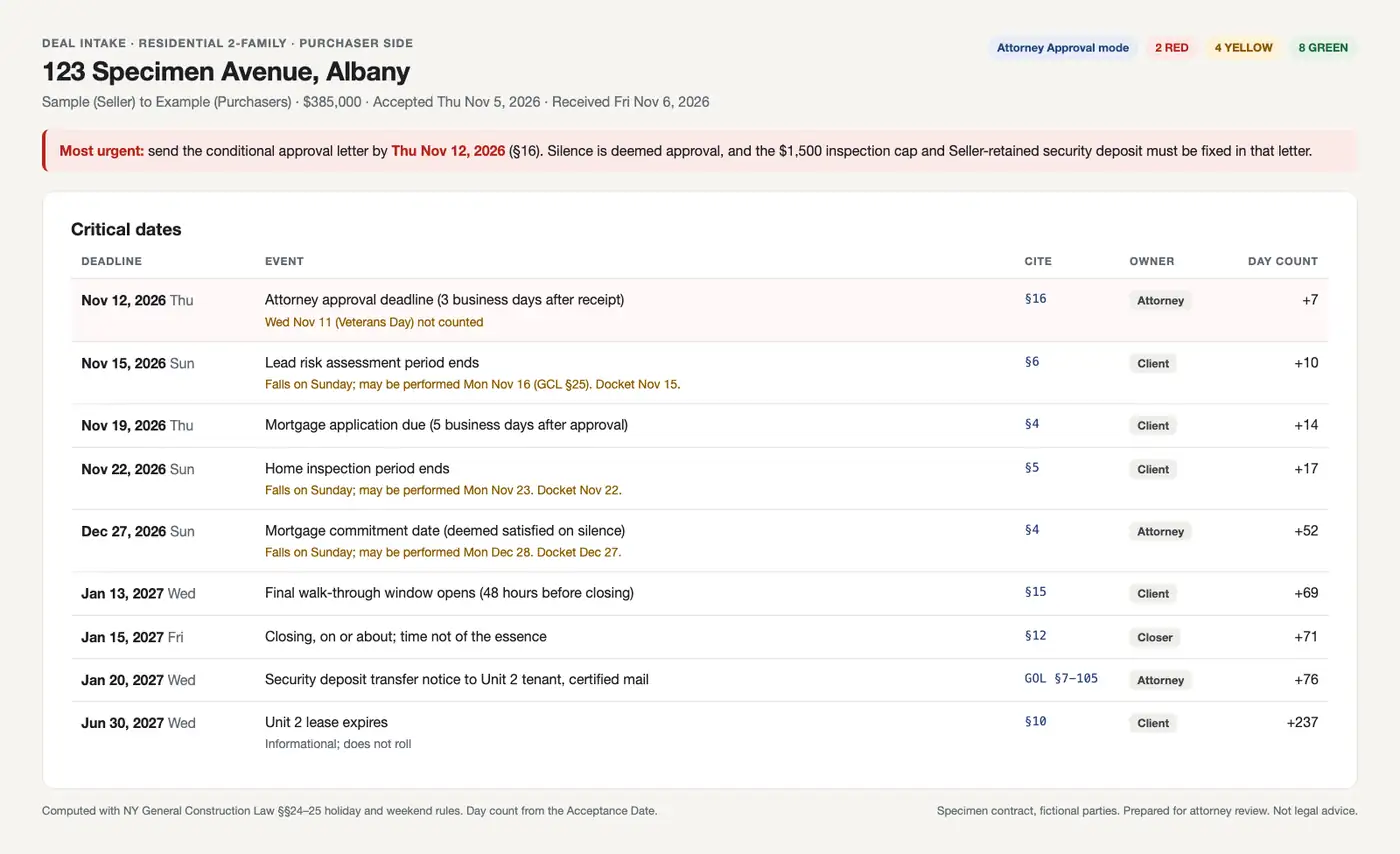
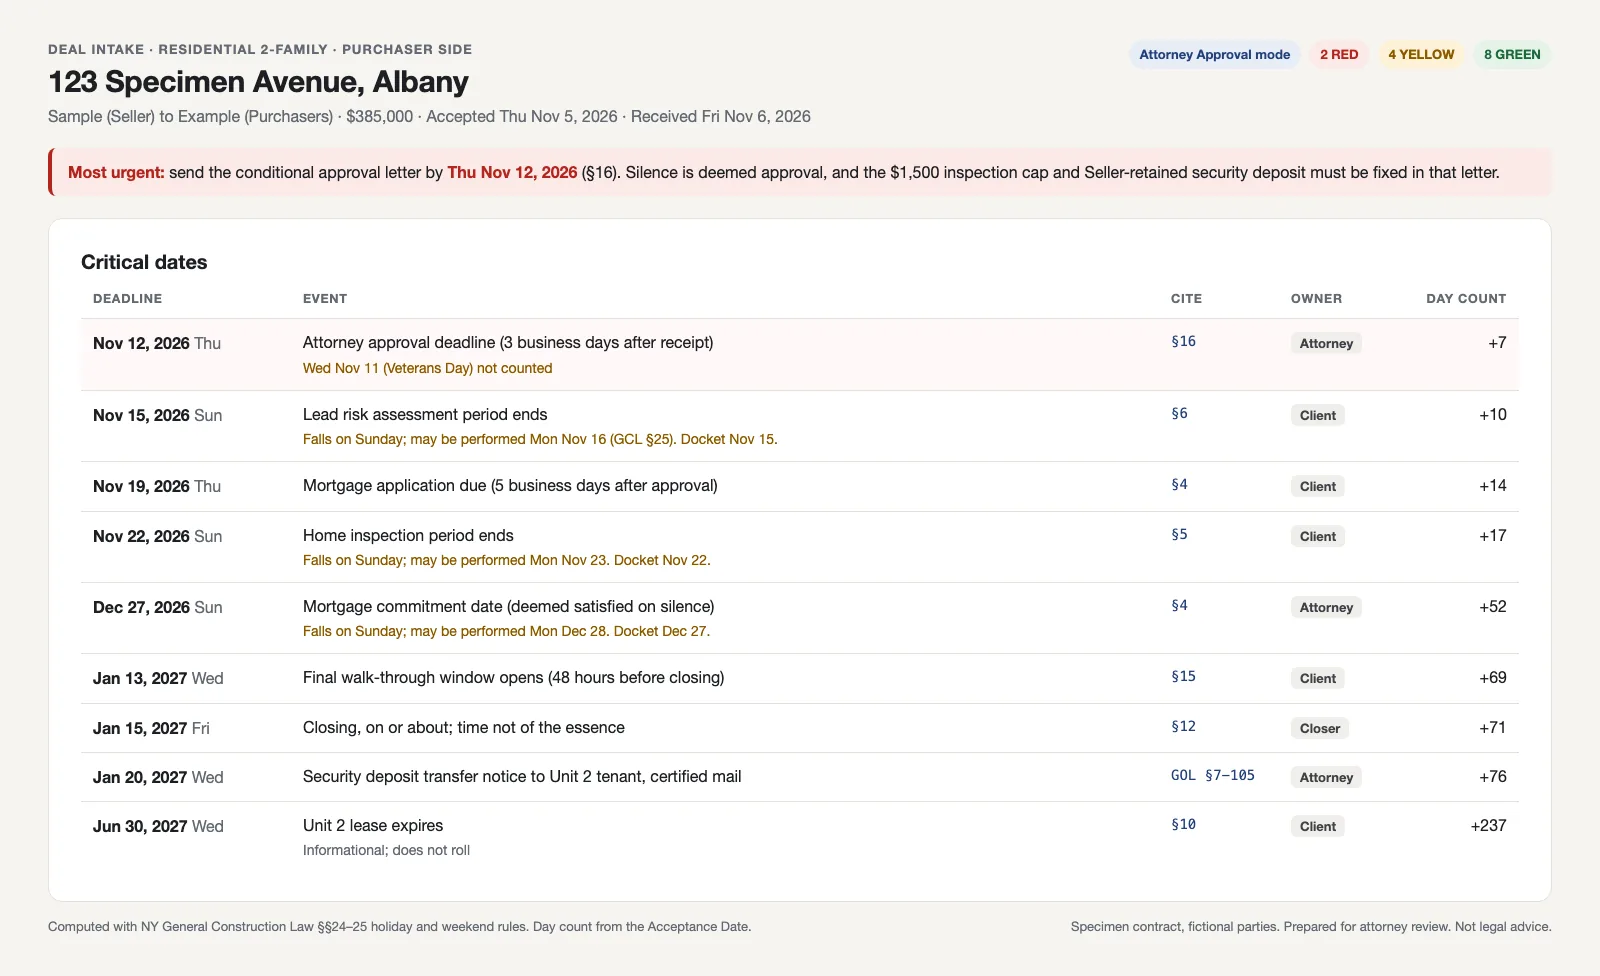
Bring page weight back under 200 KB
Show one sample-output image per agent case study (deal abstract,
issues list) and link the critical dates table and redline instead,
so they load only when clicked. Recompress the on-page images at
1200px.

Claude-Session: https://claude.ai/code/session_01GeJHZx1mCBBfykmRzQ4ieg

diff --git a/index.html b/index.html
@@ -164,10 +164,9 @@
           <div class="block reveal">
             <h4>Sample output</h4>
             <div class="shots">
-              <a class="shot" href="img/deal-abstract.webp"><img src="img/deal-abstract.webp" width="1400" height="648" loading="lazy" decoding="async" alt="Deal intake for a specimen residential two-family contract at 123 Specimen Avenue, Albany: a most urgent approval deadline, then a deal abstract with a contract section citation beside each term and red or yellow flags on the inspection, tenancy, and rental permit terms."></a>
-              <a class="shot" href="img/critical-dates.webp"><img src="img/critical-dates.webp" width="1400" height="854" loading="lazy" decoding="async" alt="Critical dates table for the same specimen contract, listing each deadline with its event, contract citation, owner, and day count, and noting where a Sunday or the Veterans Day holiday moves or does not count toward a date."></a>
+              <a class="shot" href="img/deal-abstract.webp"><img src="img/deal-abstract.webp" width="1200" height="555" loading="lazy" decoding="async" alt="Deal intake for a specimen residential two-family contract at 123 Specimen Avenue, Albany: a most urgent approval deadline, then a deal abstract with a contract section citation beside each term and red or yellow flags on the inspection, tenancy, and rental permit terms."></a>
             </div>
-            <p class="caption">Run on a specimen contract with fictional parties. Select an image to view it full size.</p>
+            <p class="caption">Run on a specimen contract with fictional parties. Select the image to view it full size, or <a href="img/critical-dates.webp">view the critical dates table</a>.</p>
           </div>
         </article>
 
@@ -210,10 +209,9 @@
           <div class="block reveal">
             <h4>Sample output</h4>
             <div class="shots">
-              <a class="shot" href="img/issues-list.webp"><img src="img/issues-list.webp" width="1400" height="887" loading="lazy" decoding="async" alt="Issues list for a specimen SaaS agreement, ranked by business impact, showing 6 red and 3 of 10 yellow issues, each with the playbook position, why it matters, the proposed fix, and a section citation."></a>
-              <a class="shot" href="img/redline.webp"><img src="img/redline.webp" width="1400" height="796" loading="lazy" decoding="async" alt="Redline of three clauses from a specimen SaaS agreement (limitation of liability, customer data license, and term and renewal), each with a note to the vendor and an internal fallback position."></a>
+              <a class="shot" href="img/issues-list.webp"><img src="img/issues-list.webp" width="1200" height="760" loading="lazy" decoding="async" alt="Issues list for a specimen SaaS agreement, ranked by business impact, showing 6 red and 3 of 10 yellow issues, each with the playbook position, why it matters, the proposed fix, and a section citation."></a>
             </div>
-            <p class="caption">Run on a specimen SaaS agreement with fictional parties. Select an image to view it full size.</p>
+            <p class="caption">Run on a specimen SaaS agreement with fictional parties. Select the image to view it full size, or <a href="img/redline.webp">view the redline</a>.</p>
           </div>
         </article>
 

diff --git a/CONTENT.md b/CONTENT.md
@@ -65,7 +65,7 @@ Designs and builds AI agents and custom Claude Skills that do structured legal w
 
 **Built with.** Claude, as a custom Skill.
 
-Sample output: deal abstract and critical dates screenshots from a run on a specimen contract with fictional parties (img/deal-abstract.webp, img/critical-dates.webp).
+Sample output: deal abstract and critical dates from a run on a specimen contract with fictional parties. The deal abstract shows on the page (img/deal-abstract.webp); the critical dates table is a link (img/critical-dates.webp).
 
 ### 2. Commercial contract review agent
 
@@ -83,7 +83,7 @@ Sample output: deal abstract and critical dates screenshots from a run on a spec
 
 **Built with.** Claude, as a custom Skill.
 
-Sample output: issues list and redline screenshots from a run on a specimen SaaS agreement with fictional parties (img/issues-list.webp, img/redline.webp).
+Sample output: issues list and redline from a run on a specimen SaaS agreement with fictional parties. The issues list shows on the page (img/issues-list.webp); the redline is a link (img/redline.webp).
 
 ### 3. Implementation workflow-mapping agent
 
